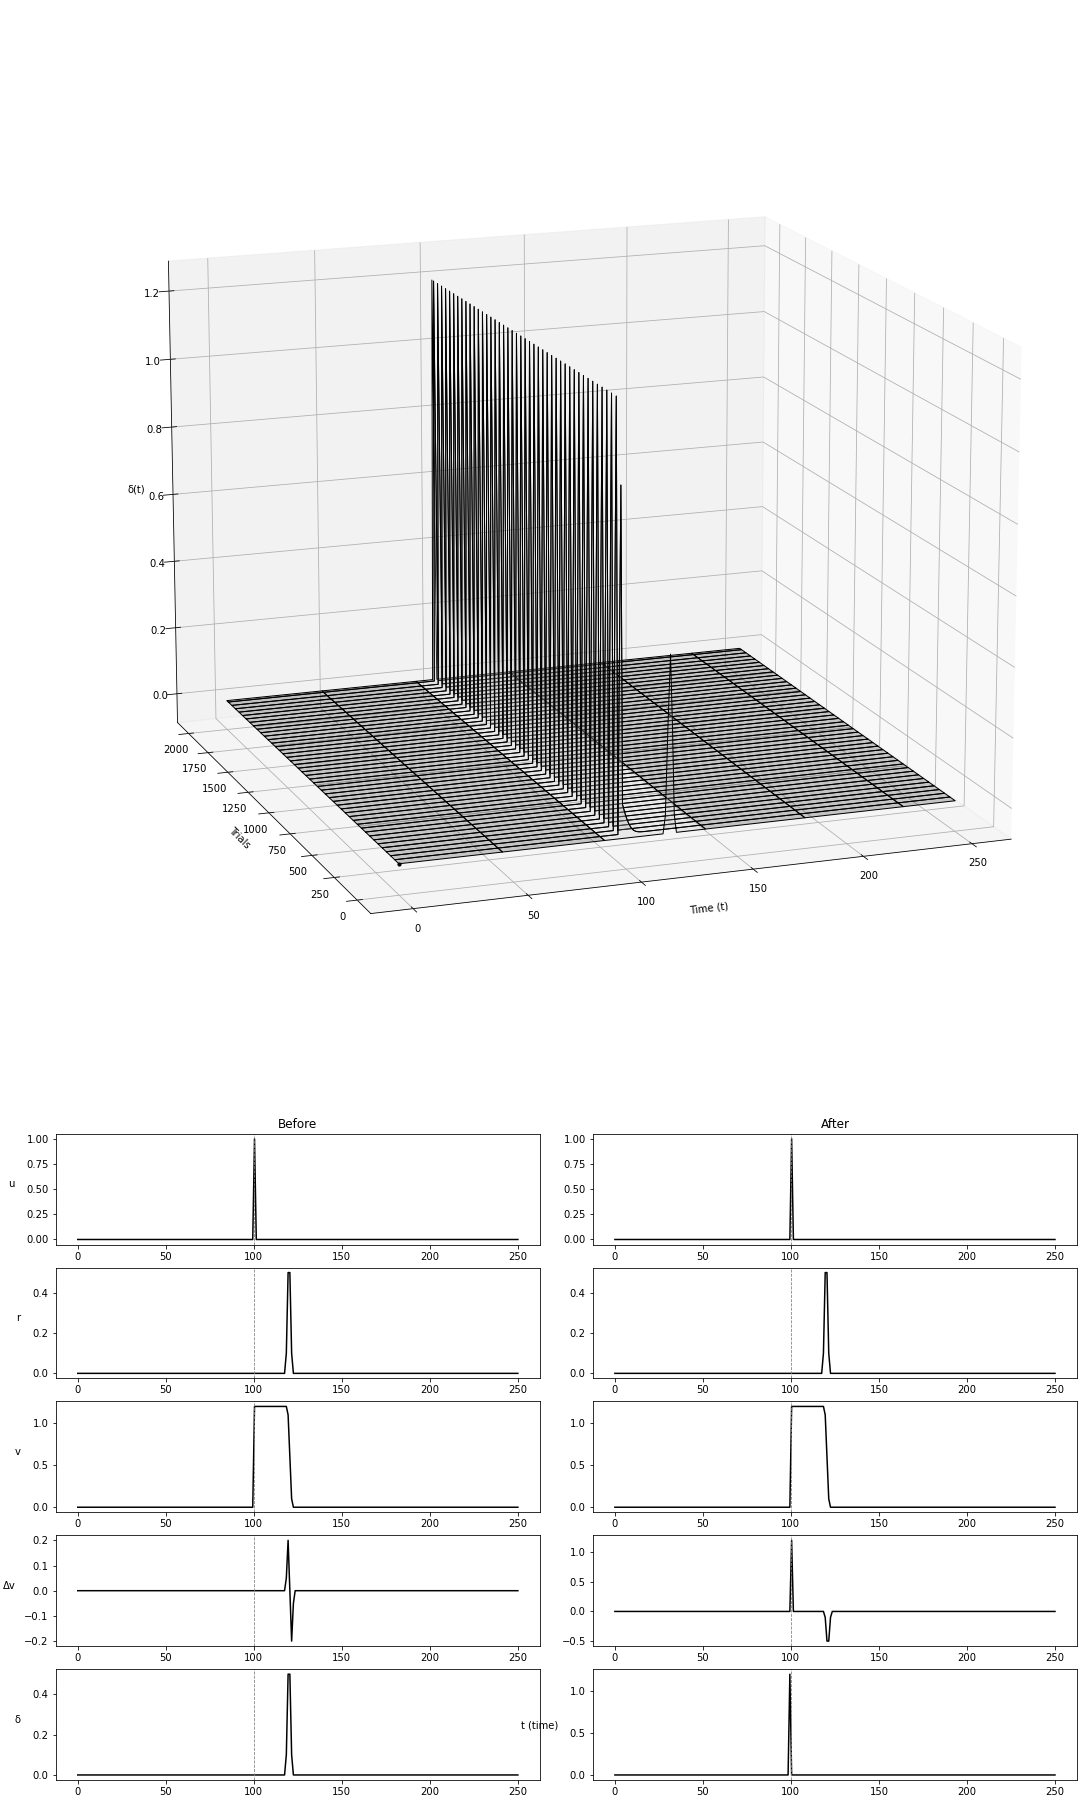
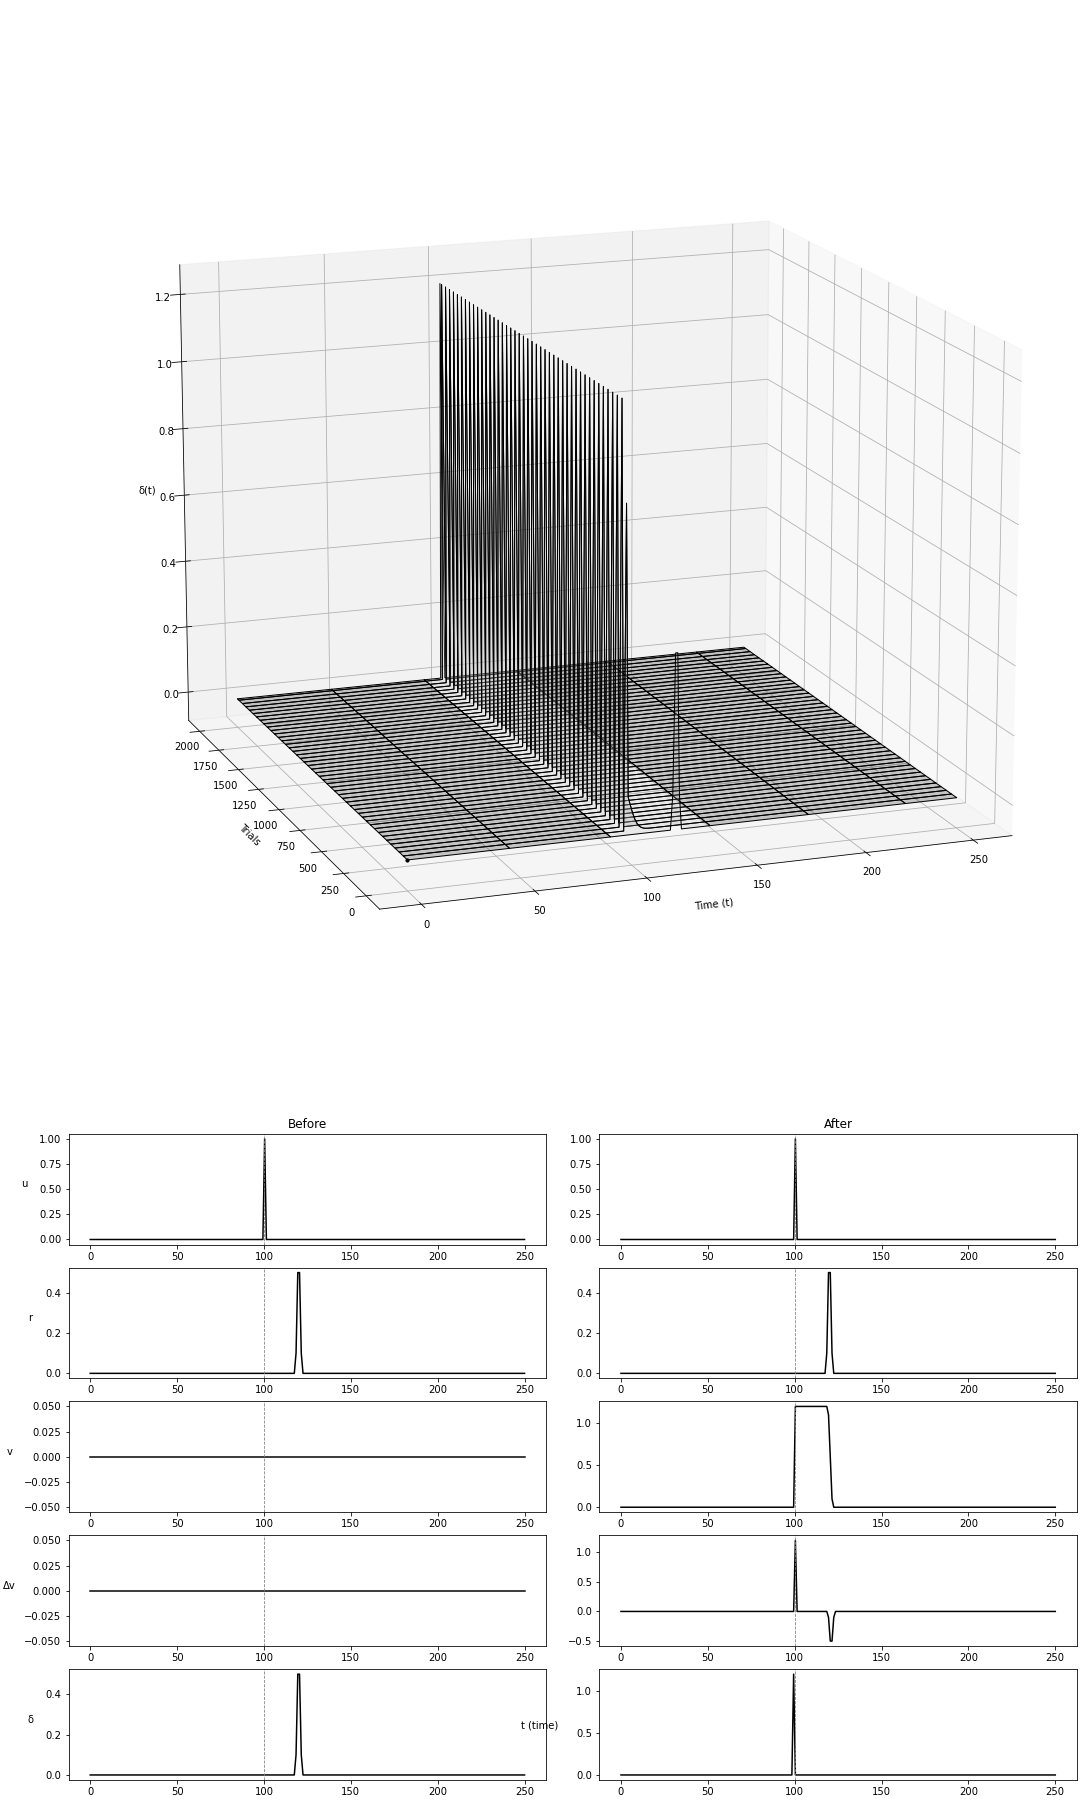
fix v and delta v

diff --git a/hw-3/temporal_difference/td.py b/hw-3/temporal_difference/td.py
@@ -94,7 +94,7 @@ def update_weights(w, u, delta, t, epsilon=0.1):
     return w
 
 #%%
-def run_trial(model, learning_rate=0.1, reward_keep_probability=1.0):
+def run_trial(model, learning_rate=0.1, reward_keep_probability=1.0, update_model=True):
     """
     Run a single trial.
     """
@@ -106,7 +106,8 @@ def run_trial(model, learning_rate=0.1, reward_keep_probability=1.0):
         if reward > 0  and reward_keep_probability < 1:
             reward = r[t] if np.random.rand() < reward_keep_probability else 0
         d = delta(reward, v, t)
-        w = update_weights(w, u, d, t, epsilon=learning_rate)
+        if update_model:
+            w = update_weights(w, u, d, t, epsilon=learning_rate)
         deltas[t] = d
         # v(t) = \sum_{\tau=0}^{t} w(\tau)  u(t - \tau)
         v[t] = np.dot(w[0:t+1], u[t::-1])
@@ -117,7 +118,6 @@ def train_model(model, num_trials=100, learning_rate=0.1, reward_keep_probabilit
     """
     Run multiple trials.
     """
-    model = SortedDict(model)
     prediction_errors = [] 
     for _ in range(num_trials): # number of trials
         v, w, deltas = run_trial(model, learning_rate=learning_rate, reward_keep_probability=reward_keep_probability)
@@ -130,21 +130,21 @@ def pre_train_behavior(model, learning_rate=0.1):
     """
     Pre-train behavior of the model. 
     """
-    model = SortedDict(model)
+    model = clone_model(model)
     prediction_errors = []
-    v, w, deltas = run_trial(model, learning_rate=learning_rate)
+    v, w, deltas = run_trial(model, learning_rate=learning_rate, update_model=False)
     model = update_model(model, v, w, deltas, update_weights=False)
     prediction_errors.append(deltas)
-    return model, np.array(prediction_errors)
+    return clone_model(model), np.array(prediction_errors).copy()
 
 #%%
 def post_train_behavior(model, learning_rate=0.1):
     """
     Post-train the behavior of the model.
     """
-    model = SortedDict(model)
+    model = clone_model(model)
     prediction_errors = []
-    v, w, deltas = run_trial(model, learning_rate=learning_rate)
+    v, w, deltas = run_trial(model, learning_rate=learning_rate, update_model=False)
     model = update_model(model, v, w, deltas, update_weights=False)
     prediction_errors.append(deltas)
     return model, np.array(prediction_errors)
@@ -153,7 +153,6 @@ def update_model(model, v, w, deltas, update_weights=False):
     """
     Update the model with the new values.
     """
-    model = SortedDict(model)
     model["dv"] = np.diff(v)
     model["deltas"] = deltas 
     if update_weights:
@@ -178,6 +177,19 @@ def initialize_model(num_time_steps=250):
              "weights": w,
              "dv": dv
     })
+    
+def clone_model(model):
+    """
+    Clone a model.
+    """
+    return SortedDict({
+        "stimulus": np.copy(model["stimulus"]),
+        "rewards": np.copy(model["rewards"]),
+        "values": np.copy(model["values"]),
+        "weights": np.copy(model["weights"]),
+        "dv": np.copy(model["dv"])
+    })
+    
 #%%
 def model_from_template(model, overrides = {}):
     """
@@ -299,25 +311,8 @@ def plot_model_behavior(pre_train_model, pre_train_deltas,
     plt.savefig(save_path) if save_path else None
     plt.show()
     
-if False:
-    #%%
-    model = initialize_model()
-    #%%
-    pre_train_model, pre_train_deltas =\
-    pre_train_behavior(model, learning_rate=0.9)
-    #%%
-    trained_model, train_deltas = \
-    train_model(model, num_trials=2000, learning_rate=0.9)
-    #%%
-    post_train_model, post_train_deltas = \
-    post_train_behavior(trained_model, learning_rate=0.9)
-    #%%
-    plot_model_behavior(pre_train_model, pre_train_deltas, 
-                    trained_model, train_deltas,
-                    post_train_model, post_train_deltas)
 #%%
-# TODO don't know why v 
-# and dv are non-zero before training
+# TODO: don't know why v  and dv are non-zero before training
 #%%
 #%%
 ## Experiment with following parameters. 
@@ -339,7 +334,7 @@ def experiment_reward_timing(selected_condition, num_trials=2000, learning_rate=
     
     pre_train_model, pre_deltas = pre_train_behavior(model, learning_rate=learning_rate)
     trained_model, train_deltas = train_model(model, num_trials=num_trials, learning_rate=learning_rate)
-    post_train_model, post_train_deltas = post_train_behavior(trained_model, num_trials=num_trials, learning_rate=learning_rate)
+    post_train_model, post_train_deltas = post_train_behavior(trained_model,  learning_rate=learning_rate)
 
     save_path = os.path.join(IMAGE_PATH, f"experiment_reward_timing_{selected_condition}.png")
 
@@ -359,7 +354,7 @@ def experiment_learning_rate(selected_condition, num_trials=2000, high_lr=0.5, l
     model = initialize_model()
     pre_train_model, pre_deltas = pre_train_behavior(model, learning_rate=learning_rate)
     trained_model, train_deltas = train_model(model, num_trials=num_trials, learning_rate=learning_rate)
-    post_train_model, post_train_deltas = post_train_behavior(trained_model, num_trials=num_trials, learning_rate=learning_rate)
+    post_train_model, post_train_deltas = post_train_behavior(trained_model,  learning_rate=learning_rate)
 
     save_path = os.path.join(IMAGE_PATH, f"experiment_learning_rate_{selected_condition}.png")
 
@@ -386,7 +381,7 @@ def experiment_multiple_rewards(selected_condition, num_trials=2000, learning_ra
     
     pre_train_model, pre_deltas = pre_train_behavior(model, learning_rate=learning_rate)
     trained_model, train_deltas = train_model(model, num_trials=num_trials, learning_rate=learning_rate)
-    post_train_model, post_train_deltas = post_train_behavior(trained_model, num_trials=num_trials, learning_rate=learning_rate)
+    post_train_model, post_train_deltas = post_train_behavior(trained_model,  learning_rate=learning_rate)
 
     save_path = os.path.join(IMAGE_PATH, f"experiment_multiple_rewards_{selected_condition}.png")
 
@@ -410,7 +405,7 @@ def experiment_stochastic_rewards(selected_condition, num_trials=2000, learning_
     trained_model, train_deltas = train_model(model, num_trials=num_trials, 
                                               learning_rate=learning_rate, 
                                               reward_keep_probability=reward_keep_probability)
-    post_train_model, post_train_deltas = post_train_behavior(trained_model, num_trials=num_trials, learning_rate=learning_rate)
+    post_train_model, post_train_deltas = post_train_behavior(trained_model,  learning_rate=learning_rate)
 
     save_path = os.path.join(IMAGE_PATH, f"experiment_stochastic_rewards_{selected_condition}.png")
 

diff --git a/hw-3/successor_representation/sr_template.py b/hw-3/successor_representation/sr_template.py
@@ -130,7 +130,7 @@ for i in range(5001):
         plot_maze(maze)
         plt.imshow(succ_repr, cmap='hot')
         if i == 5000:
-             plt.savefig("empirical")
+             plt.savefig(f"empirical-{i}")
         plt.show()
 
 #%%
@@ -241,7 +241,13 @@ def compute_sr(transitions, i, j, gamma=0.98, shape=(9, 13)):
     return total.reshape(shape)
 
 #%%
-transitions = compute_transition_matrix_empirical(maze) #compute_transition_matrix(maze)
+empirical_transitions = compute_transition_matrix_empirical(maze)
+transitions = compute_transition_matrix(maze) 
+plt.imshow(empirical_transitions)
+plt.show()
+plt.imshow(transitions)
+plt.show()
+#compute_transition_matrix(maze)
 #%%
 # compute state representation for start state
 i, j = start
